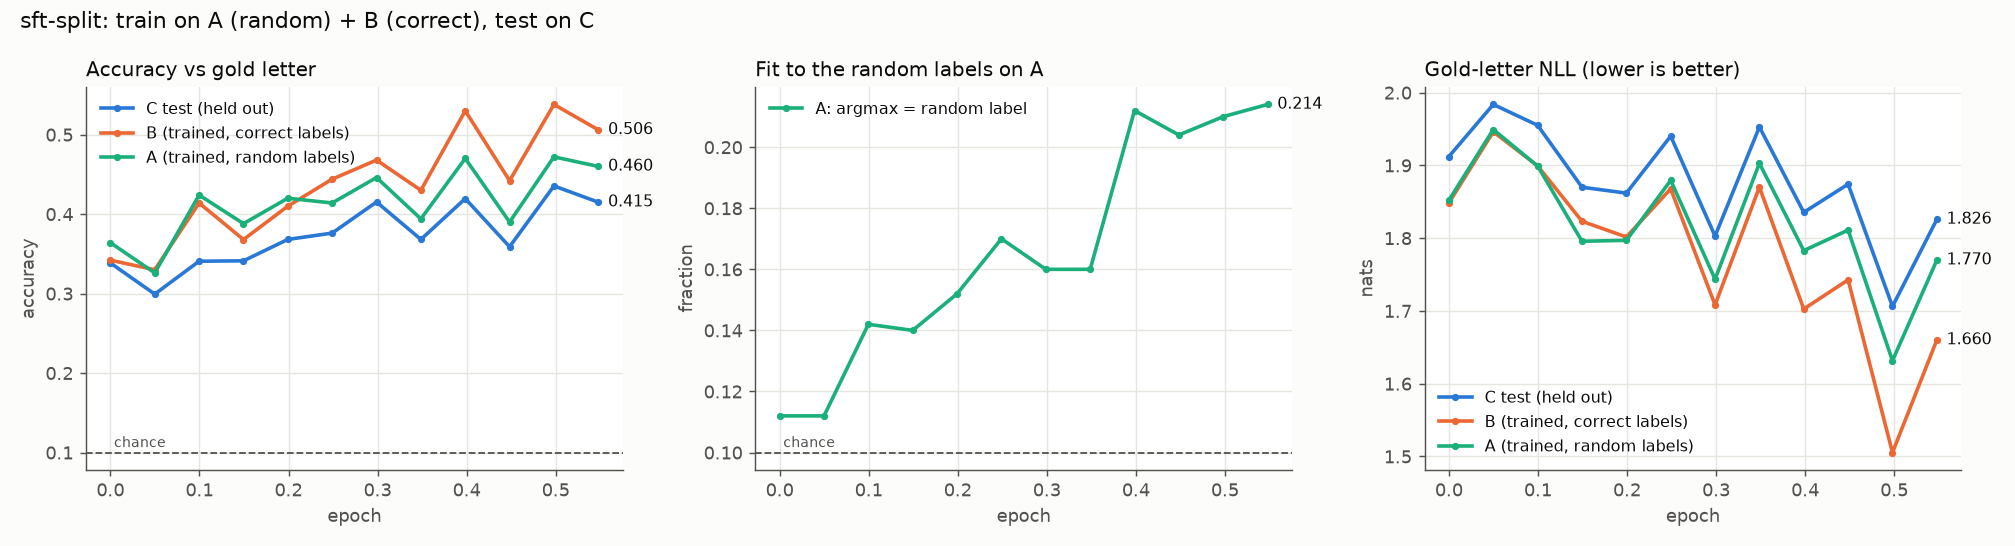
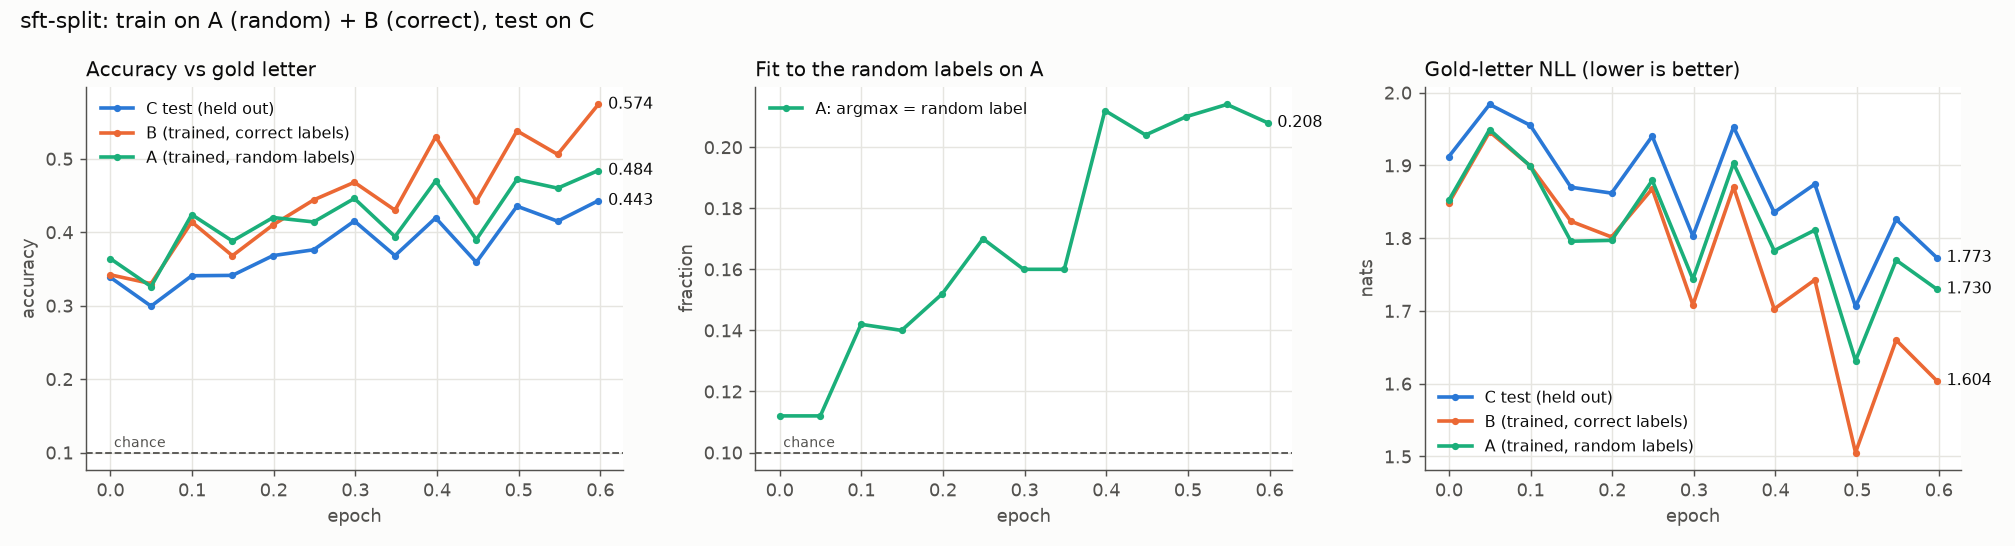
Drop the portrait, move the quote to the top

diff --git a/README.md b/README.md
@@ -1,5 +1,7 @@
 <h1 align="center">Memorize</h1>
 
+<p align="center"><i>"memory is just compression you can run"</i></p>
+
 <p align="center"><b>Do memories matter?</b><br>
 A small lab for poking at a reasoning model on a laptop and one GPU.</p>
 
@@ -165,75 +167,4 @@ model = PeftModel.from_pretrained(base_model, "Arisp/memorize-instruct")
 
 ## License
 
-MIT, see [LICENSE](LICENSE). The Kolmogorov portrait below is an adaptation of a
-CC BY-SA 4.0 photograph (credited under it) and is shared under the same license.
-
-<details>
-<summary>🎩 one more thing</summary>
-
-```
-                        __           __,,,,,,,,,,,__
-                     /('''''\--\.--('  . .         ''\\_
-                    \\                                 ')\,_
-                    /.                                     ''\,_
-                   / ...                           ..   ....   '\_
-                  \\..                               ......:;:...'\_
-                  |.                        . .:..=+:=;x+...;;;:..:'\\_
-                  (.                      :=.    ..+:..x::;a=+;x;;;xXOo)\
-                 _\                   ....:               =XOx*aX*xxa*oOOa,
-                 /.         .         ..       :..     .  +*XaOO##x*o**o*X0x_
-                |\                                       .:=***xxO#*;x;xxx;x+_
-               ,(                                        .::.;;==xxo*;::=....),_
-              |\     .                             .     .:..:=+===+xxa:=.     '\_
-              (     ..                                   .:::;;=:=::;x:=..       )
-             _\    ....                        .    . ...::x:..:.=:;*x+===.      .\
-             \-    ....                          ..  ...::.;;; :.:;x*;;x=+=      .|
-             |    .=:..                             ...:...::;::x*axxxx;;.      . //
-             (   .=::.                 ..         . .. . ..::.;xoXXaaoxx= . .     .)_
-            |.  .++::.                      .  ..    . .::..:+xxaaXOXa*;+:..     . .\
-            |  .;x+:.            .. .   .           .  ..:..:xxaaaXoxoXx:=  ..      =
-            ( .:;;... .....  .......:: . .. .....::........::x;aoXXOXao;::. ..     |\
-           -\..;;=...+;;=xxaXox*x;:.+:.:::.::.:...... .... .=:;xxaaoaox++..  :.    (
-            =::x;. :xxxxaXO00@@00Xaoox;;;o;;;xooaaXOXax.::.:..=x*oxxoaox=:  ....  \\
-            |;:+=..:::::+;xaX####0#OXa:xxXO#0#0MNNNNNMM@Xa**;==;oxxx;XaX*; .  ... |
-            --=::....xa000NNNM0M@00#x:.:;O@0NNNN@#XXXOO#0#O00axxxx;;x*a00x....... |
-            |;;=.    .  ..=;xxaXaa*x.  .xaO0MNNM@NMMM0Xx=;X0@0o*;+x+;;X0X;xx+;x=:.|
-            |..:.     .=+==;;;xx=::.    :=;xX#XOOao;0MNNN0aXXXOx:..::oooaxX=oXoox_(
-            ( .:          ..::..   .   .:===;xxx;=.. . ..:xaaxxxx++;;;x*aaoxOXa#*(
-           -\...                   .   .:..:=:.=;;+;;xx*a;..   ..+xx;xxxx;;oX#0#x
-           -/....                 .    .:=..:=.. . .. .       ...:+;;x#Xox;xo;.:|
-           -/ ....           ...       .::.....               .:;x;xxoO#O*+aOx..|
-            |  .... .      .oX.        .x;;;xaa:           ...:==xxxoO0**; #Ma; |
-            )_ .:=:......:;aO;.       .:+:...+X@x..    ......=:+xxaa#@#xx;::O*. |
-             \_.:+;;=::=xoaX:..xx;;x;;++;:=;;O000X+......::==xx;x*0@#00Xa+x;=;._(
-              '\==xoaoaaaox=   .X0N@@MMNMNNN0XxXX0X;;;::::=;x*Xa#M00OOOO#...  _(
-                \+;oooaooa:    . =XMNNNNM0Oa;;::;a#XXoa*x*xXXa*a#0X#Xa#o:.:. .=
-                |=x==+;aO:.. ....:=;oXOa*x**x;==xxXO0#0M@0M0#a*XOXX#XaXx....:/
-                -x+...=o=:::...:::=;xoo;xx;;.:x;x;o#0XXO00O#0OX#XaXXXa0#x;;;|
-                 =+:...;xx;=:;;=+;;=;;;xXaox*xxxxxxXMa;;;xaaO#0#aXaXa@NNOxx=)_
-                 )+;:::=;oa**XoaX00X*oO#OOOXXaaXX0@0@...;xaX@00XXaaX0NoaNX;::+
-                 -/;x;;xxxx;;;*O###X0@0MM@0OXooXM0a*..:x*oa@@#XaXXXXNX ;NNx:.)_
-                 _a;xax;=:..=+xo;..:+*x;::;*O#oX0a;;=;XaOaO#aoxoooaM0  =@N@:.:'\_
-               _,/x=xXa*=.  .:;xa0@MM@@N@@@O*x:x+.=xxX0MOOXooooXXaO0:  Xx0No.;@a.)\_
-          _,//''   .+*xxx=.:.::..:xa#XX#O*a=::.  ..xXO#OaoXaO00OOX#:  =x+@NM=.@N0+ '),_
-   __,//''   .  ... .*xax;. .         .  . .   ..:.+;xx;;;*O@M0O##.  .;+*MNNO.xNNo..  )\_
-  ''       ...:=:.   :X#X;=.  ...            ..:=;xXax;x*o0NM@X#O   .x==a@NNN=:0Mx.     '\,_
-         ...::+:      .aaxx:.:. .....:... . ..:+xXO@##Xa#0M0#X0x   :o=:=o#0MN#.XO:..  .    '\,
-     .... .::=:       =Oa;+x;;;;=;;+;;xx==.=:x;XaO0@@@@00#0000.   ;o;;x*aaaO#0;oX:. .:. .     '\__
-  .......::...       .:#@xxx*XaoaaaXXXoxx*xxoa*OO#0@@0#OO#@@*   .**::;x:;***oXoxX. . ...... .   .'
-  .... .....         .:#0*x;+;x*aaXaXaa*aaaXXXX#000OOXXXO#X.   .;:..=;+==;;;xxa:x:   .:=...
-  ... ....           .:OX*.=+===;x*XOXOOaXOOOXXXXaaooxoXa:    :+:.::=:...:=:+;x=:.........
-       . .          . .xxo.:+;::+:;aaaaoo**ooo**xxxxx*x:    ..:....:.........:=:........... .
-       .   ..       . ..;x:.:...:.;xx;;=;;;;;x;x;;x;;.     :.... ...   .. ...... ..... ..
-           ...::.   .  ..::........:::.::::=======.       ..  .  .            ..  ..  . . .
-              . .        ...      ... .........
-
-  Andrey Nikolaevich Kolmogorov, 1903-1987
-  "memory is just compression you can run"
-```
-
-<sub>Portrait: ASCII rendering of a detail from [a photograph of Kolmogorov and Igor Zurbenko](https://commons.wikimedia.org/wiki/File:KolmogorovZurbenko.jpg) by Igor Zurbenko, [CC BY-SA 4.0](https://creativecommons.org/licenses/by-sa/4.0/). Best viewed in a light theme.</sub>
-
-<sub>· ˚ ✦ · thanks for stopping by · ✦ ˚ ·</sub>
-
-</details>
+MIT, see [LICENSE](LICENSE).
